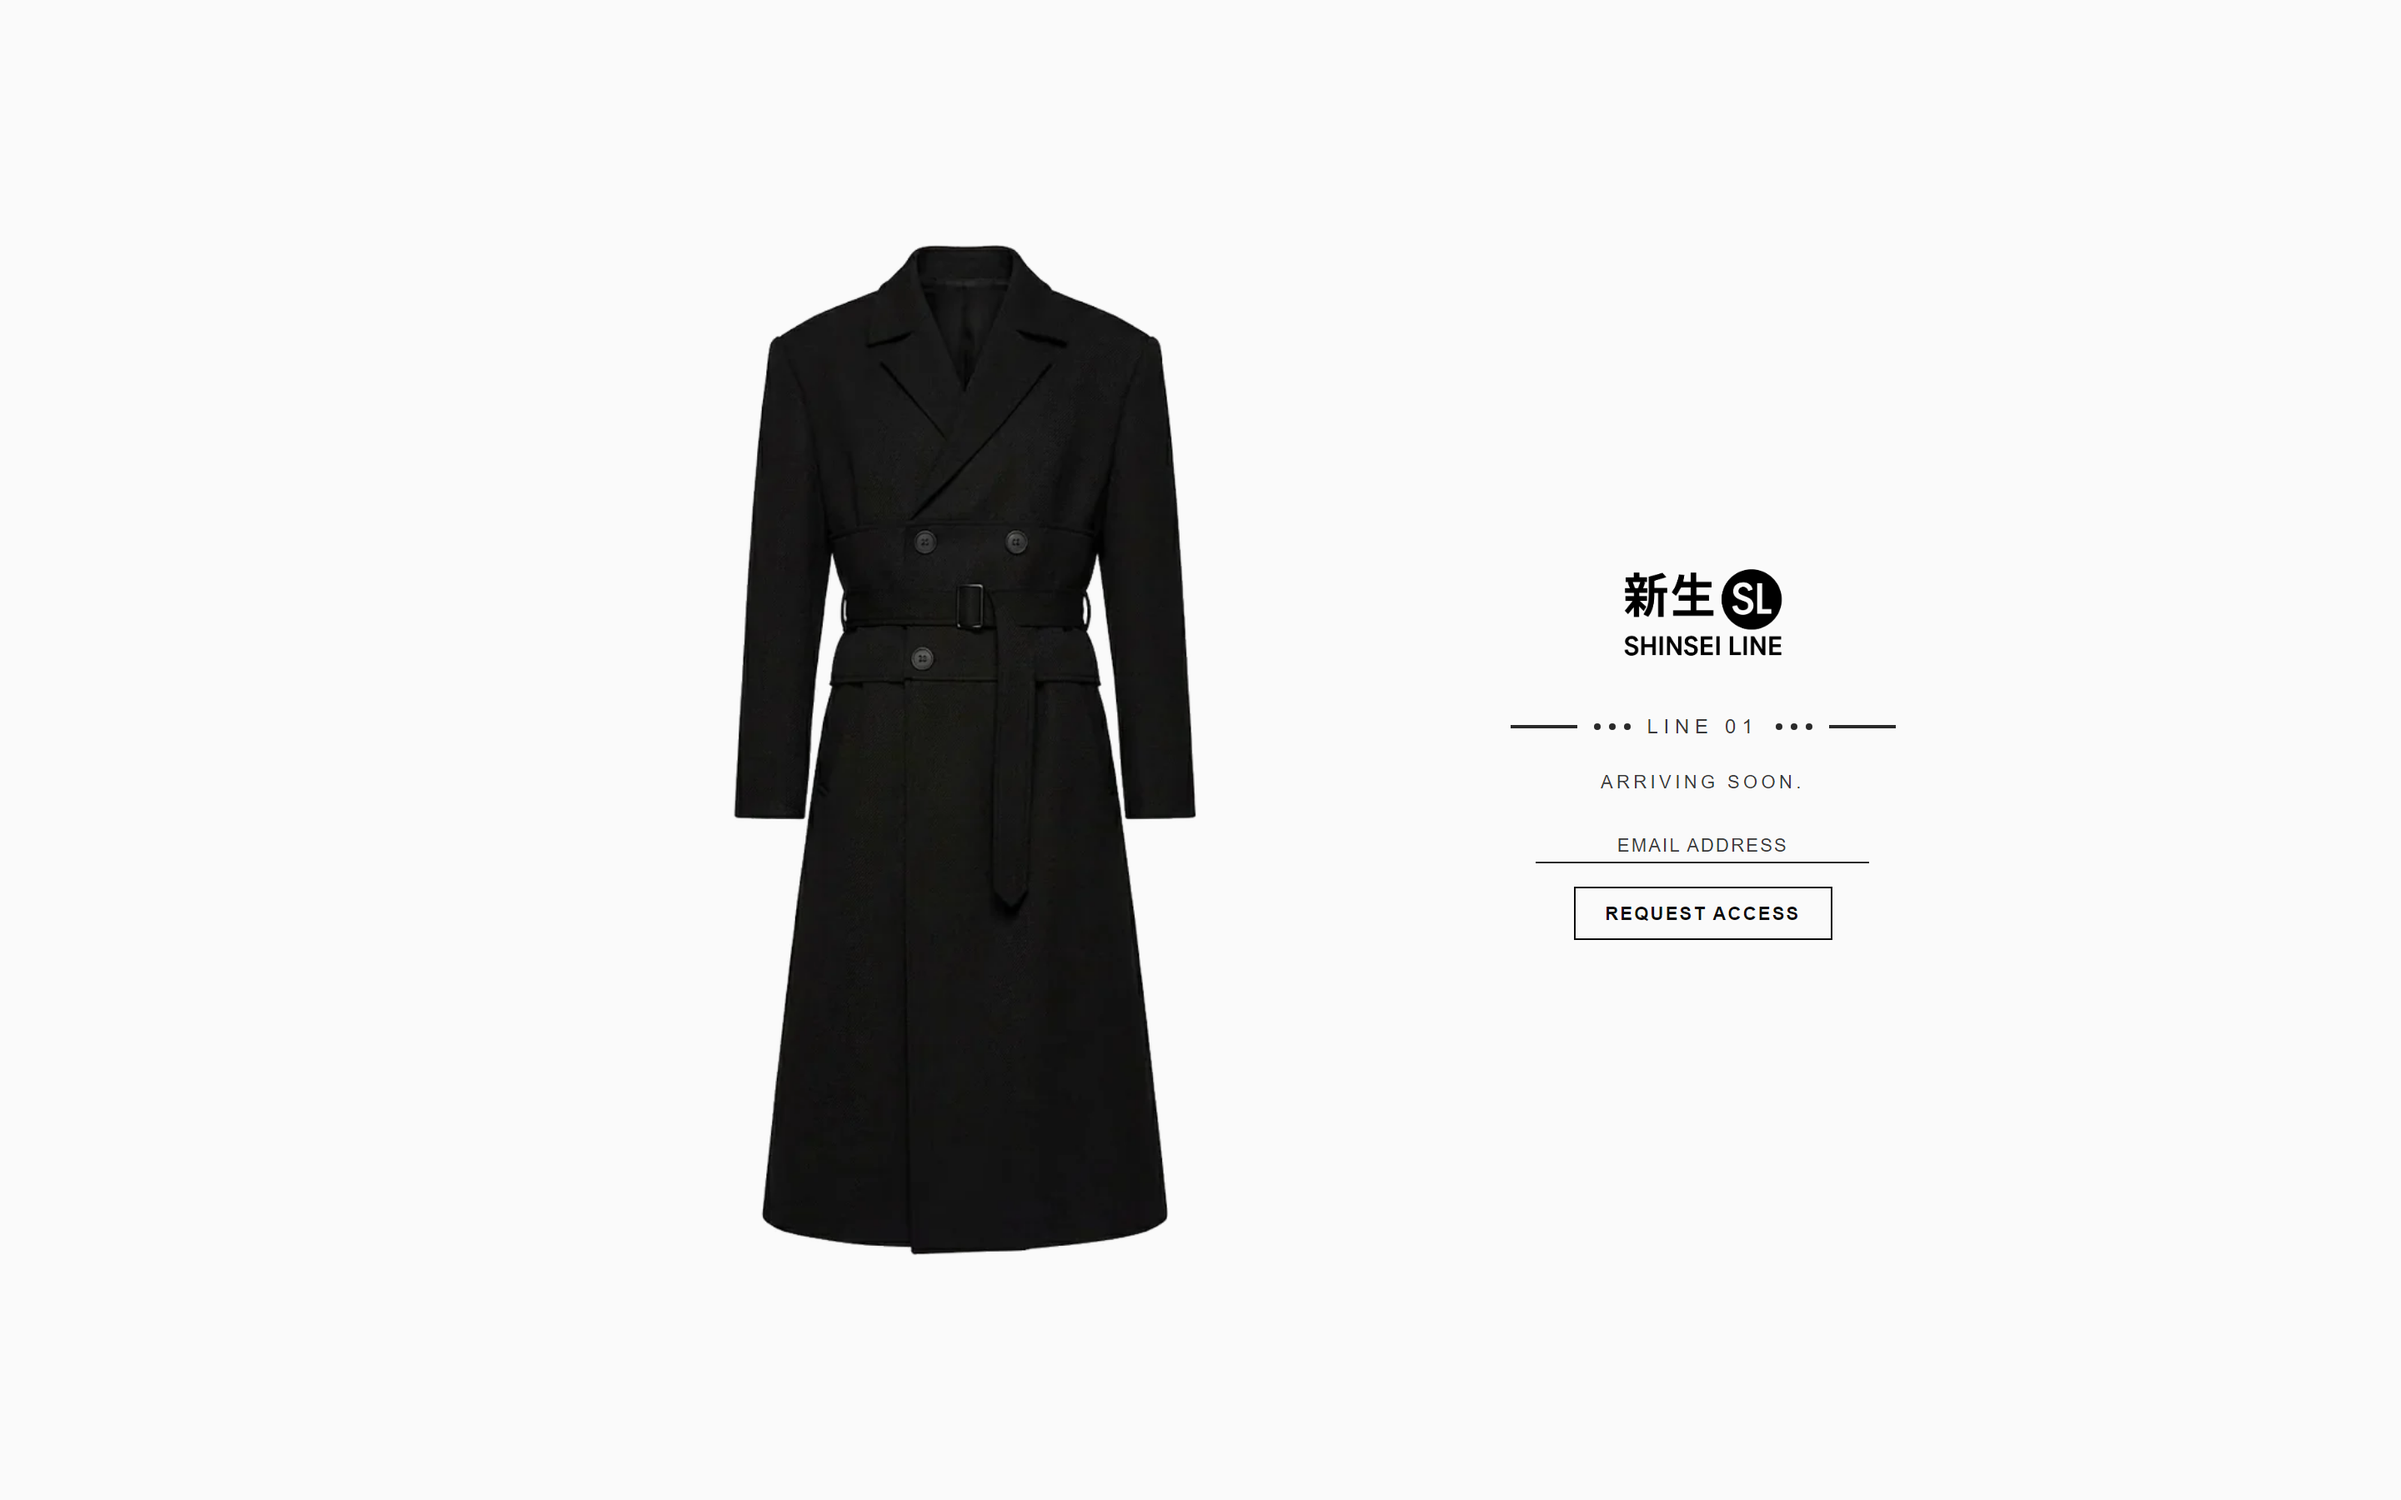
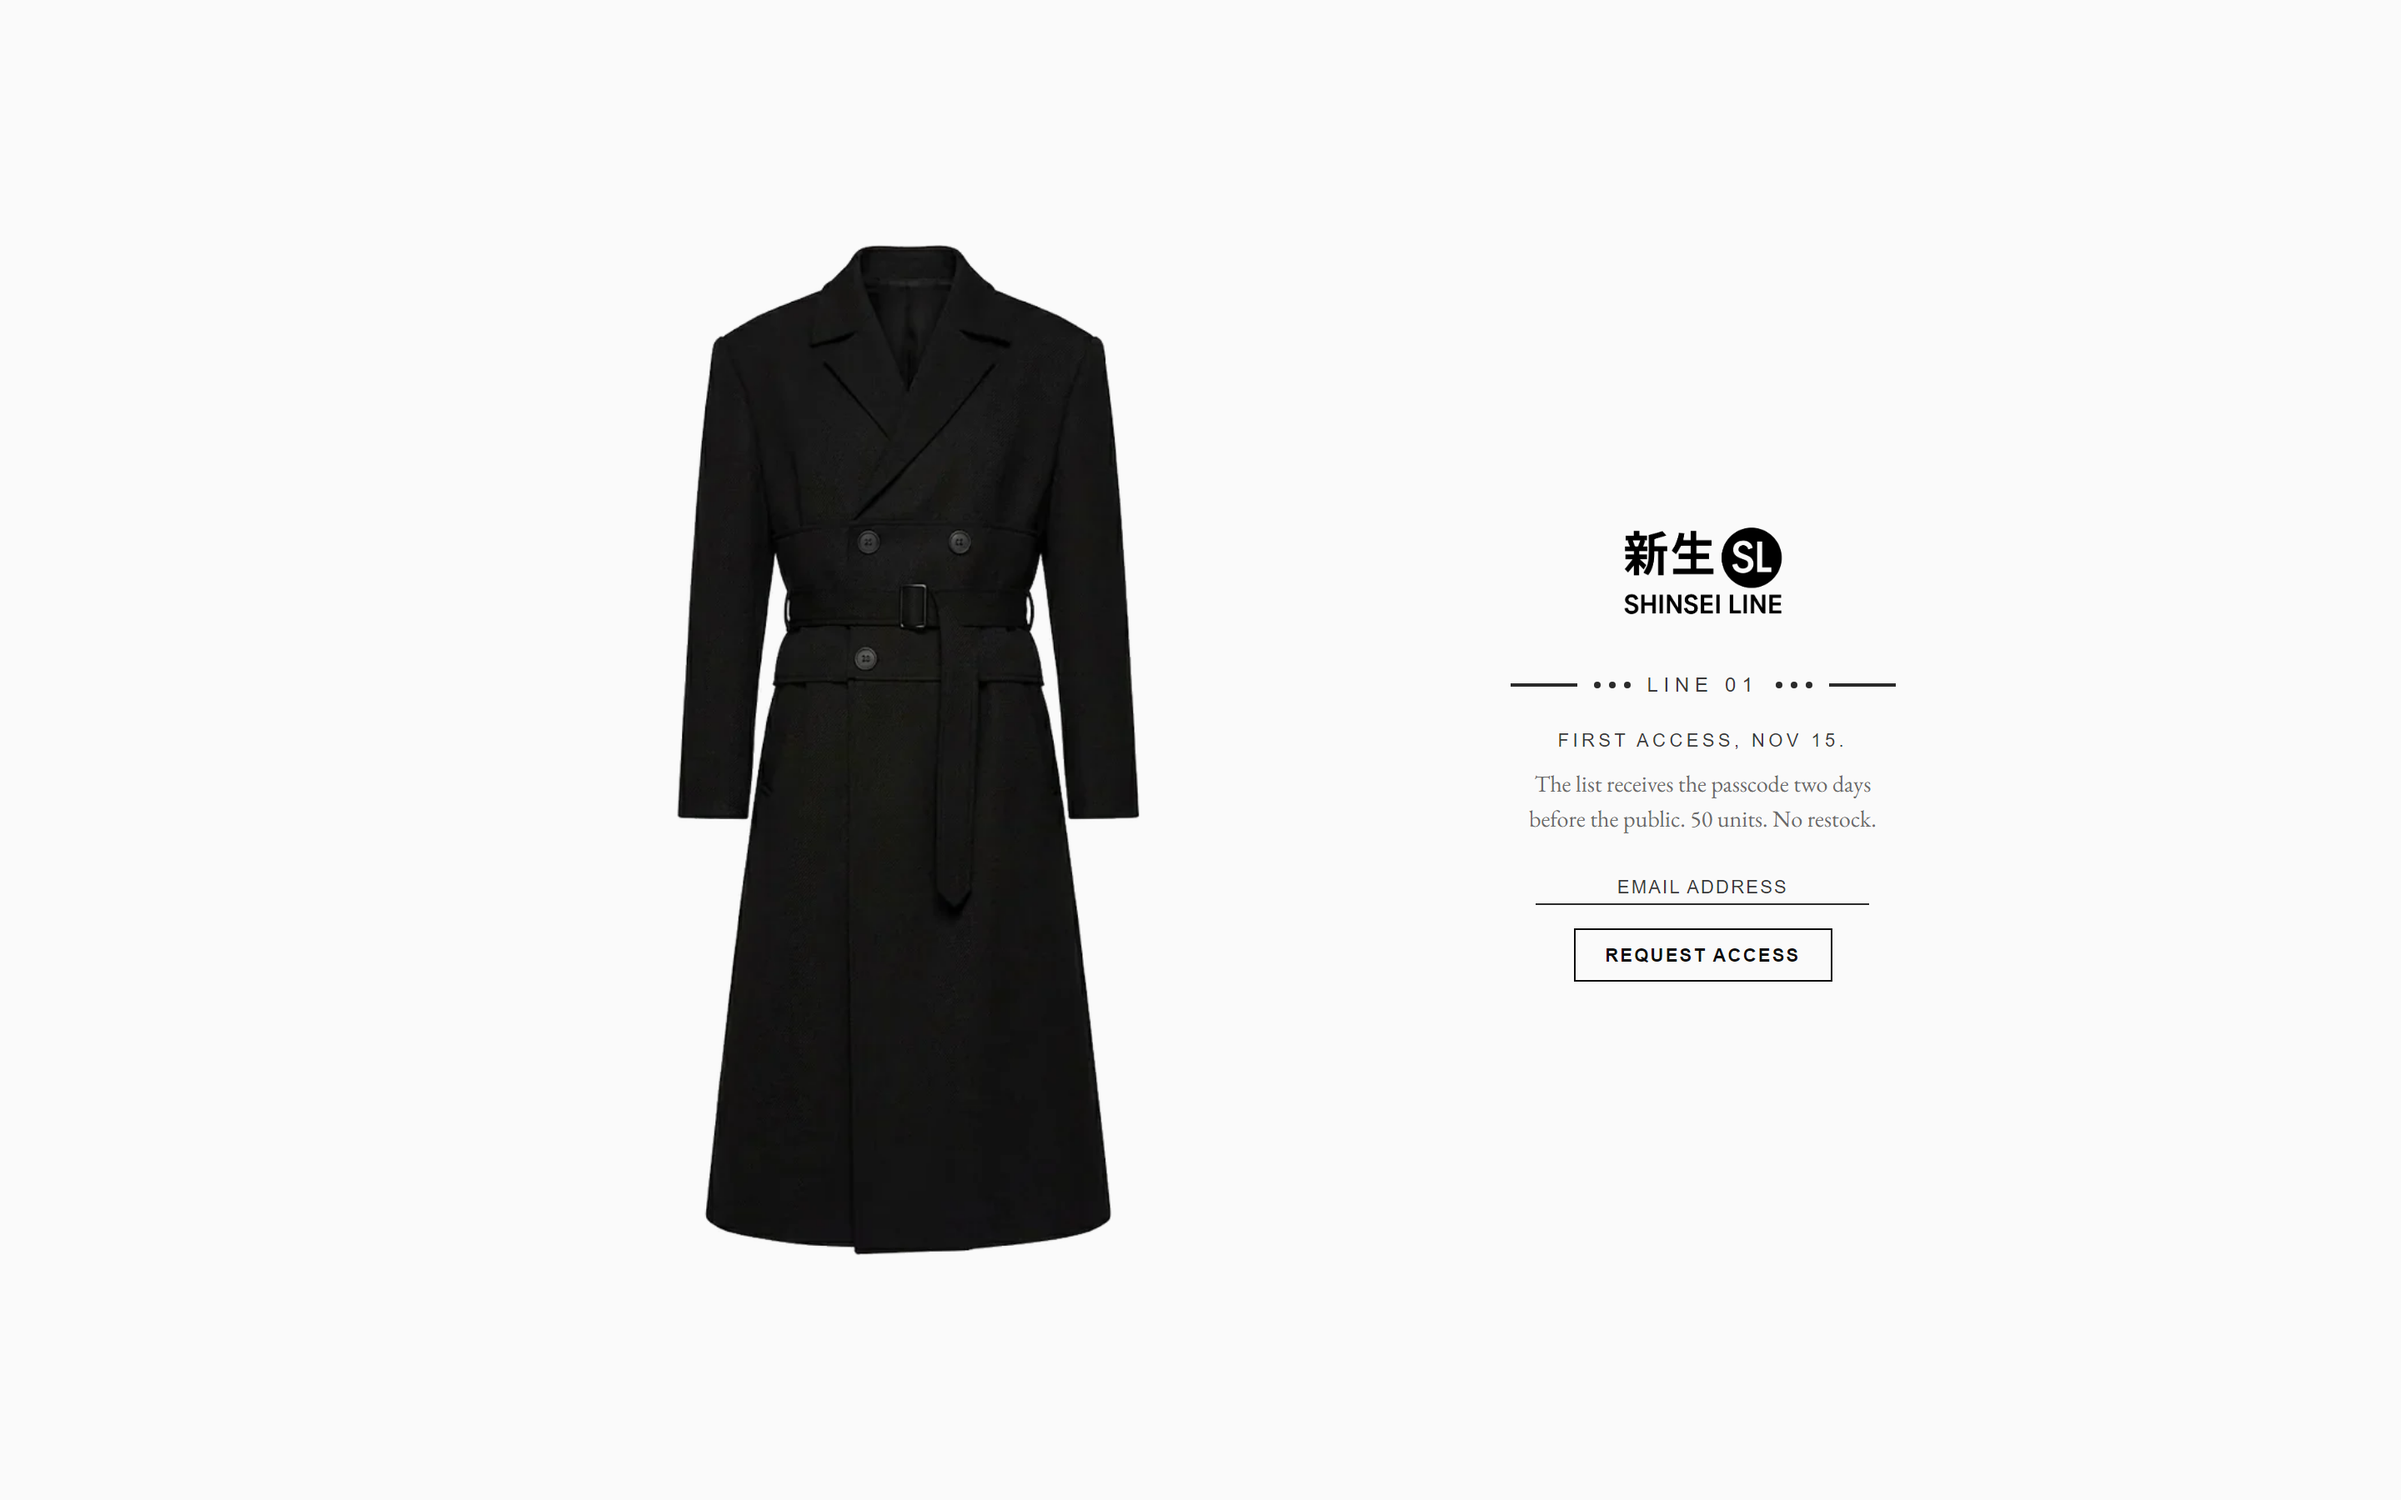
nl-password: serif sub-line setting (ported from the live theme's Oct 20 change)

Changed region(s): [[0.2812, 0.1556, 0.5, 0.84], [0.6562, 0.3422, 0.7812, 0.6533], [0.375, 0.3422, 0.4062, 0.3733]]

diff --git a/nl-password/assets/nl-password.css b/nl-password/assets/nl-password.css
@@ -230,6 +230,21 @@ body {
   white-space: nowrap;
 }
 
+/* Sub-line: what joining the list gets you. Serif, sentence case and
+   wrapping (unlike the one-line copy) so the longer sentence stays readable. */
+.nl-password__lines p.nl-password__subline {
+  max-width: 300px;
+  font-family: var(--nl-font-serif, "EB Garamond", Georgia, "Times New Roman", serif);
+  font-style: normal;
+  font-size: 14px;
+  letter-spacing: 0;
+  text-transform: none;
+  color: var(--nl-color-text-secondary, #6a6a6a);
+  line-height: 1.5;
+  white-space: normal;
+  text-wrap: balance;
+}
+
 /* Signup */
 .nl-password__signup {
   text-align: center;
@@ -324,6 +339,7 @@ body {
   .nl-password__dot { width: 3px; height: 3px; }
   .nl-password__tag-text { font-size: 10px; }
   .nl-password__lines p { font-size: 10px; letter-spacing: 0.18em; }
+  .nl-password__lines p.nl-password__subline { font-size: 13px; letter-spacing: 0; max-width: 260px; }
   .nl-password__form input[type='email'] { width: 180px; }
   .nl-password__staff-form input[type='password'] {
     width: 100%;

diff --git a/nl-password/README.md b/nl-password/README.md
@@ -1,6 +1,6 @@
 # nl-password
 
-A quiet holding page for a password-protected store: optional product image, logo, a transit-style tag ("— • • • LINE 01 • • • —"), up to three short lines, and an email signup with a pulsing button. Staff reach the real store-password form through an invisible hotspot.
+A quiet holding page for a password-protected store: optional product image, logo, a transit-style tag ("— • • • LINE 01 • • • —"), up to three short lines plus a serif sub-line, and an email signup with a pulsing button. Staff reach the real store-password form through an invisible hotspot.
 
 | Mobile | Desktop | Phone, landscape |
 |---|---|---|
@@ -8,7 +8,7 @@ A quiet holding page for a password-protected store: optional product image, log
 
 ## What it does
 
-- **Everything is a setting.** That covers the image, logo, tag text and ornaments, three lines of copy, signup on/off, email placeholder, button label, pulse, success message, the customer tag added to signups, three page colours, and the staff-login copy.
+- **Everything is a setting.** That covers the image, logo, tag text and ornaments, three lines of copy, a serif sub-line, signup on/off, email placeholder, button label, pulse, success message, the customer tag added to signups, three page colours, and the staff-login copy.
 - **Signups become customers.** Shopify's customer form tags each one (default `holding-page`), so you can find them under **Customers** and email them at launch.
 - **Instant confirmation.** The success message shows on submit and survives Shopify's page reload, including after a captcha step.
 - **Staff access.** An invisible 56×56px hotspot in the top-left corner opens the store-password form and focuses it. A wrong password reopens the form with the error message.
@@ -41,7 +41,8 @@ templates/password.json      example template using this section
 | | Logo | (none: shows the store name) |
 | Tag | Tag text | `LINE 01` (empty hides the tag) |
 | | Show rules and dots around the tag | On |
-| Copy | Line 1 / 2 / 3 | Line 3: `Arriving soon.` |
+| Copy | Line 1 / 2 / 3 | Line 3: `First access, Nov 15.` |
+| | Sub-line | `The list receives the passcode two days before the public. 50 units. No restock.` (serif, muted, wraps) |
 | Signup | Show email signup | On |
 | | Email placeholder | `Email address` |
 | | Button label | `Request access` |
@@ -53,7 +54,7 @@ templates/password.json      example template using this section
 
 ## Design tokens used
 
-`--nl-color-bg`, `--nl-color-text`, `--nl-color-error`, `--nl-font-sans`, plus the section's own `--nl-password-text`, `--nl-password-line` and `--nl-password-highlight`.
+`--nl-color-bg`, `--nl-color-text`, `--nl-color-text-secondary`, `--nl-color-error`, `--nl-font-sans`, `--nl-font-serif`, plus the section's own `--nl-password-text`, `--nl-password-line` and `--nl-password-highlight`.
 
 ## Notes
 
